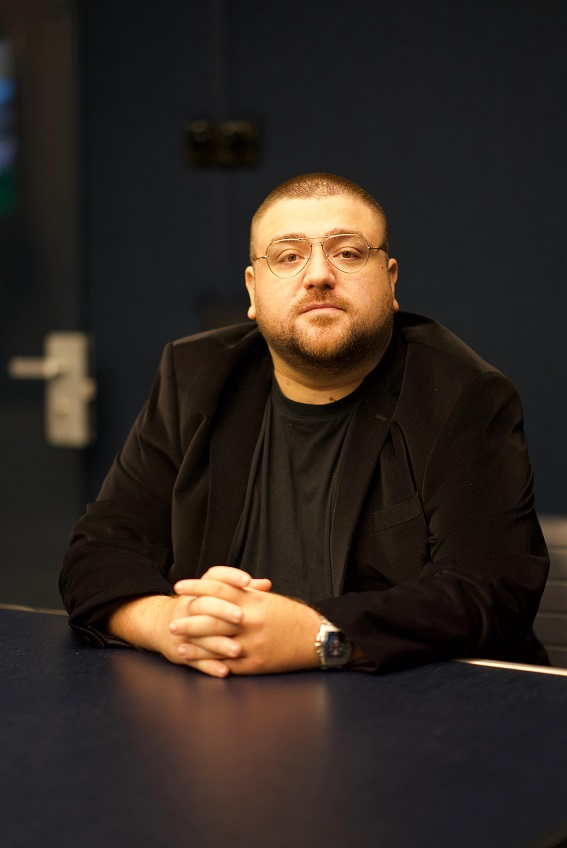
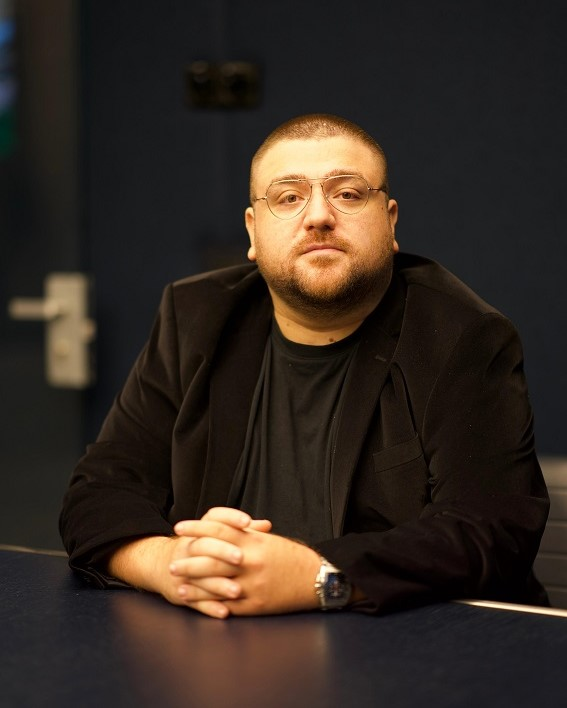
Hype foto eklendi

diff --git a/Oylama/index.html b/Oylama/index.html
@@ -538,7 +538,7 @@
                         <div class="candidate">
                             <input type="radio" id="q12c3" name="entry.195216280" value="Hype" required>
                             <label for="q12c3">
-                                <img src="candidate1.jpg" alt="Candidate 3">
+                                <img src="/assets/adaylar/hype.jpeg" alt="Candidate 3">
                                 <br>Hype
                             </label>
                         </div>
